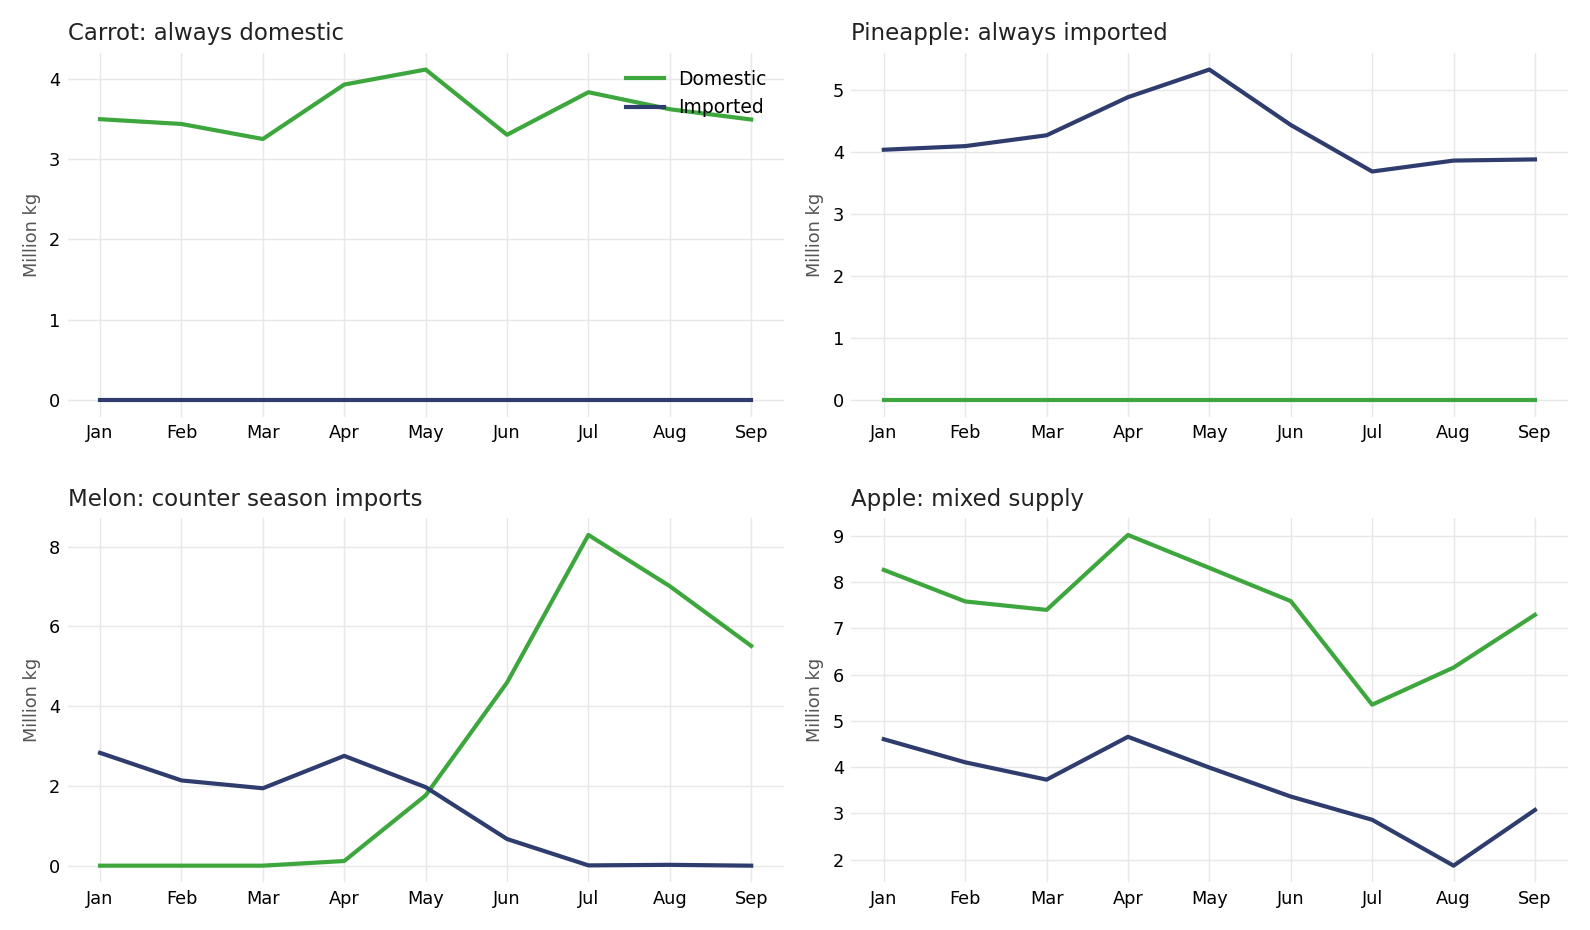
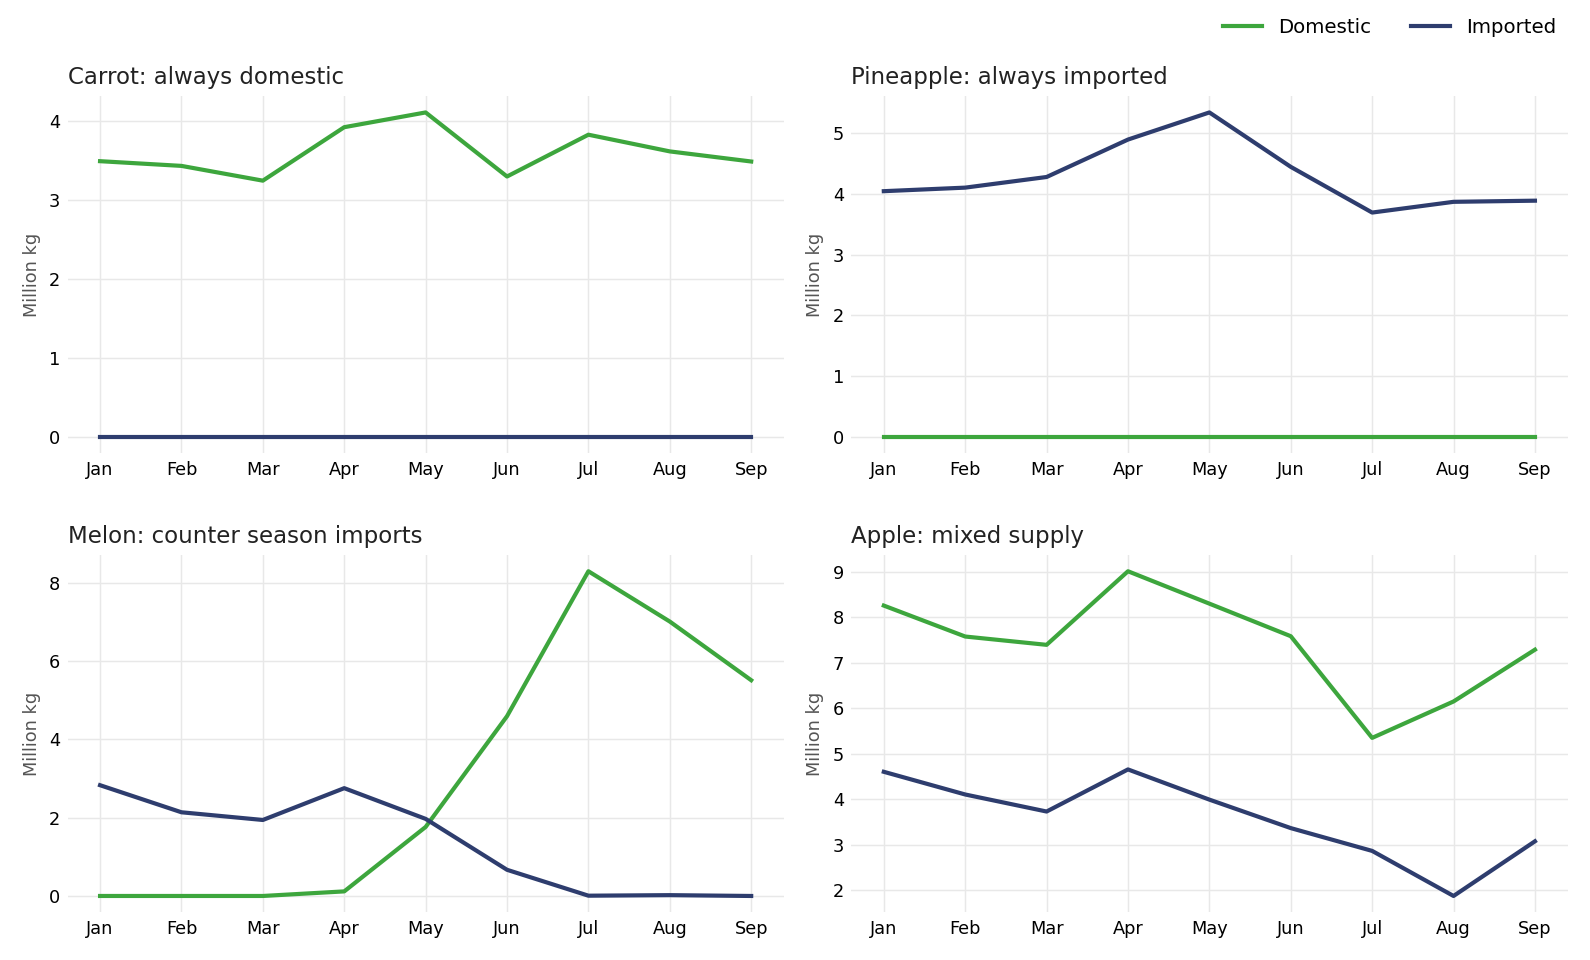
Humanize intro, rename distance section, plain Power BI badge, legend outside the pattern subplots

diff --git a/README.md b/README.md
@@ -3,9 +3,9 @@
 ![Python](https://img.shields.io/badge/Python-3.9%2B-3776AB?logo=python&logoColor=white)
 ![pandas](https://img.shields.io/badge/pandas-cleaning%20%2B%20transformation-150458?logo=pandas&logoColor=white)
 ![GeoPy](https://img.shields.io/badge/GeoPy-geocoding%20%2B%20Haversine-2E3D6E)
-![Power BI](https://img.shields.io/badge/Power%20BI-interactive%20dashboard-F2C811)
+![Power BI](https://img.shields.io/badge/Power%20BI-F2C811)
 
-Origin and sustainability analysis of **Mercamadrid, the largest fresh food distribution hub in Europe**. Using its 2024 open sales data (volume, price and origin of every product traded), this project measures how much of Madrid's fresh food is imported, what drives those imports, and what that means in transport distance and environmental footprint.
+Mercamadrid is **the largest fresh food hub in Europe**: if you eat in Madrid, your food has probably passed through it. Every sale (volume, price, origin) ends up in its open data, so I took the 2024 figures and followed the trail: how much of Madrid's food is imported, why, and what those imports cost in kilometers.
 
 ![Key stats](figures/01_key_stats.png)
 
@@ -38,7 +38,7 @@ Origin and sustainability analysis of **Mercamadrid, the largest fresh food dist
 
 *Monthly kilos by origin. Every top vegetable falls into one of these four patterns. Melon is the clearest case of imports stepping in exactly when national production stops: year-round availability, at a cost.*
 
-### The cost of distance
+### The distance gap
 
 ![Distance by product](figures/08_distance_by_product.png)
 